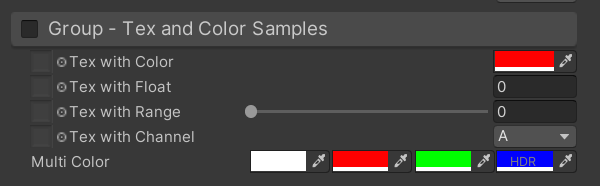
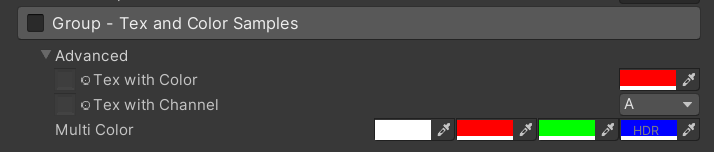
remove Tex() Extra Property Type: Float, Range

diff --git a/Editor/LWGUI.cs b/Editor/LWGUI.cs
@@ -91,14 +91,10 @@ namespace LWGUI
 							EditorGUI.indentLevel++;
 					}
 
-					// Advanced
+					// Advanced Header
 					if (propStaticData.isAdvancedHeader && !propStaticData.isAdvancedHeaderProperty)
 					{
-						var rect = EditorGUILayout.GetControlRect();
-						var revertButtonRect = RevertableHelper.SplitRevertButtonRect(ref rect);
-						var label = string.IsNullOrEmpty(propStaticData.advancedHeaderString) ? "Advanced" : propStaticData.advancedHeaderString;
-						propStaticData.isExpanding = EditorGUI.Foldout(rect, propStaticData.isExpanding, label);
-						RevertableHelper.DrawRevertableProperty(revertButtonRect, prop, this, true);
+						DrawAdvancedHeader(propStaticData, prop);
 
 						if (!propStaticData.isExpanding)
 						{
@@ -145,6 +141,18 @@ namespace LWGUI
 			Helper.DrawLogo();
 		}
 
+		private void DrawAdvancedHeader(PropertyStaticData propStaticData, MaterialProperty prop)
+		{
+			var rect = EditorGUILayout.GetControlRect();
+			var revertButtonRect = RevertableHelper.SplitRevertButtonRect(ref rect);
+			var label = string.IsNullOrEmpty(propStaticData.advancedHeaderString) ? "Advanced" : propStaticData.advancedHeaderString;
+			propStaticData.isExpanding = EditorGUI.Foldout(rect, propStaticData.isExpanding, label);
+			if (Event.current.type == EventType.MouseDown && Event.current.button == 0 && rect.Contains(Event.current.mousePosition))
+				propStaticData.isExpanding = !propStaticData.isExpanding;
+			RevertableHelper.DrawRevertableProperty(revertButtonRect, prop, this, true);
+			Helper.DoPropertyContextMenus(rect, prop, this);
+		}
+
 		private void DrawProperty(MaterialProperty prop)
 		{
 			var propStaticData = perShaderData.propertyDatas[prop.name];
@@ -167,6 +175,5 @@ namespace LWGUI
 			materialEditor.ShaderProperty(rect, prop, label);
 			Helper.EndProperty(this, prop);
 		}
-
 	}
 } //namespace LWGUI

diff --git a/Editor/ShaderDrawer.cs b/Editor/ShaderDrawer.cs
@@ -612,7 +612,7 @@ namespace LWGUI
 	/// group：father group name, support suffix keyword for conditional display (Default: none)
 	/// extraPropName: extra property name (Default: none)
 	/// Target Property Type: Texture
-	/// Extra Property Type: Any, except Texture
+	/// Extra Property Type: Color, Vector
 	/// </summary>
 	public class TexDrawer : SubDrawer
 	{
@@ -663,14 +663,17 @@ namespace LWGUI
 			EditorGUI.showMixedValue = prop.hasMixedValue;
 			var rect = position;
 			var texLabel = label.text;
-			label.text = " ";
+			// label.text = " ";
 
 			MaterialProperty extraProp = lwgui.perFrameData.GetProperty(_extraPropName);
-			if (extraProp != null && extraProp.type != MaterialProperty.PropType.Texture)
+			if (extraProp != null && (
+					extraProp.type == MaterialProperty.PropType.Color
+					|| extraProp.type == MaterialProperty.PropType.Vector
+				))
 			{
-				RevertableHelper.FixGUIWidthMismatch(extraProp.type, editor);
-
 				var i = EditorGUI.indentLevel;
+				RevertableHelper.FixGUIWidthMismatch(extraProp.type, editor);
+				EditorGUI.indentLevel += 2;
 
 				if (extraProp.type == MaterialProperty.PropType.Vector)
 					_channelDrawer.OnGUI(rect, extraProp, label, editor);
@@ -680,7 +683,7 @@ namespace LWGUI
 				EditorGUI.indentLevel = i;
 			}
 			
-			editor.TexturePropertyMiniThumbnail(rect, prop, texLabel, label.tooltip);
+			editor.TexturePropertyMiniThumbnail(rect, prop, string.Empty, label.tooltip);
 
 			EditorGUI.showMixedValue = false;
 		}

diff --git a/Editor/Helper.cs b/Editor/Helper.cs
@@ -310,7 +310,7 @@ namespace LWGUI
 
 			// Button
 			{
-				// Right Click to Context Click
+				// Cancel Right Click
 				if (Event.current.type == EventType.MouseDown && Event.current.button == 1 && rect.Contains(Event.current.mousePosition))
 					Event.current.Use();
 

diff --git a/README.md b/README.md
@@ -286,7 +286,7 @@ public SubKeywordEnumDrawer(string group, string kw1, string kw2, string kw3, st
 /// group：father group name, support suffix keyword for conditional display (Default: none)
 /// extraPropName: extra property name  (Default: none)
 /// Target Property Type: Texture
-/// Extra Property Type: Any, except Texture
+/// Extra Property Type: Color, Vector
 public TexDrawer() { }
 public TexDrawer(string group) : this(group, String.Empty) { }
 public TexDrawer(string group, string extraPropName)
@@ -308,21 +308,15 @@ Example:
 
 ```c#
 [Main(Group3, _, on)] _group3 ("Group - Tex and Color Samples", float) = 0
-[Tex(Group3, _color)] _tex_color ("Tex with Color", 2D) = "white" { }
-[HideInInspector] _color (" ", Color) = (1, 0, 0, 1)
-[Tex(Group3, _float4)] _tex_float ("Tex with Float", 2D) = "white" { }
-[HideInInspector] _float4 (" ", float) = 0
-[Tex(Group3, _range)] _tex_range ("Tex with Range", 2D) = "white" { }
-[HideInInspector] _range (" ", Range(0,1)) = 0
-[Tex(Group3, _textureChannelMask1)] _tex_channel ("Tex with Channel", 2D) = "white" { }
-[HideInInspector] _textureChannelMask1(" ", Vector) = (0,0,0,1)
+[Advanced][Tex(Group3, _color)] _tex_color ("Tex with Color", 2D) = "white" { }
+[Advanced][HideInInspector] _color (" ", Color) = (1, 0, 0, 1)
+[Advanced][Tex(Group3, _textureChannelMask1)] _tex_channel ("Tex with Channel", 2D) = "white" { }
+[Advanced][HideInInspector] _textureChannelMask1 (" ", Vector) = (0, 0, 0, 1)
 
-// Display up to 4 colors in a single line (Unity 2019.2+)
-[Color(Group3, _mColor1, _mColor2, _mColor3)]
-_mColor ("Multi Color", Color) = (1, 1, 1, 1)
-[HideInInspector] _mColor1 (" ", Color) = (1, 0, 0, 1)
-[HideInInspector] _mColor2 (" ", Color) = (0, 1, 0, 1)
-[HideInInspector] [HDR] _mColor3 (" ", Color) = (0, 0, 1, 1)
+[Advanced][Color(Group3, _mColor1, _mColor2, _mColor3)] _mColor ("Multi Color", Color) = (1, 1, 1, 1)
+[Advanced][HideInInspector] _mColor1 (" ", Color) = (1, 0, 0, 1)
+[Advanced][HideInInspector] _mColor2 (" ", Color) = (0, 1, 0, 1)
+[Advanced][HideInInspector] [HDR] _mColor3 (" ", Color) = (0, 0, 1, 1)
 
 ```
 

diff --git a/README_CN.md b/README_CN.md
@@ -285,7 +285,7 @@ public SubKeywordEnumDrawer(string group, string kw1, string kw2, string kw3, st
 /// group：father group name, support suffix keyword for conditional display (Default: none)
 /// extraPropName: extra property name  (Default: none)
 /// Target Property Type: Texture
-/// Extra Property Type: Any, except Texture
+/// Extra Property Type: Color, Vector
 public TexDrawer() { }
 public TexDrawer(string group) : this(group, String.Empty) { }
 public TexDrawer(string group, string extraPropName)
@@ -309,10 +309,6 @@ Example:
 [Main(Group3, _, on)] _group3 ("Group - Tex and Color Samples", float) = 0
 [Tex(Group3, _color)] _tex_color ("Tex with Color", 2D) = "white" { }
 [HideInInspector] _color (" ", Color) = (1, 0, 0, 1)
-[Tex(Group3, _float4)] _tex_float ("Tex with Float", 2D) = "white" { }
-[HideInInspector] _float4 (" ", float) = 0
-[Tex(Group3, _range)] _tex_range ("Tex with Range", 2D) = "white" { }
-[HideInInspector] _range (" ", Range(0,1)) = 0
 [Tex(Group3, _textureChannelMask1)] _tex_channel ("Tex with Channel", 2D) = "white" { }
 [HideInInspector] _textureChannelMask1(" ", Vector) = (0,0,0,1)
 
